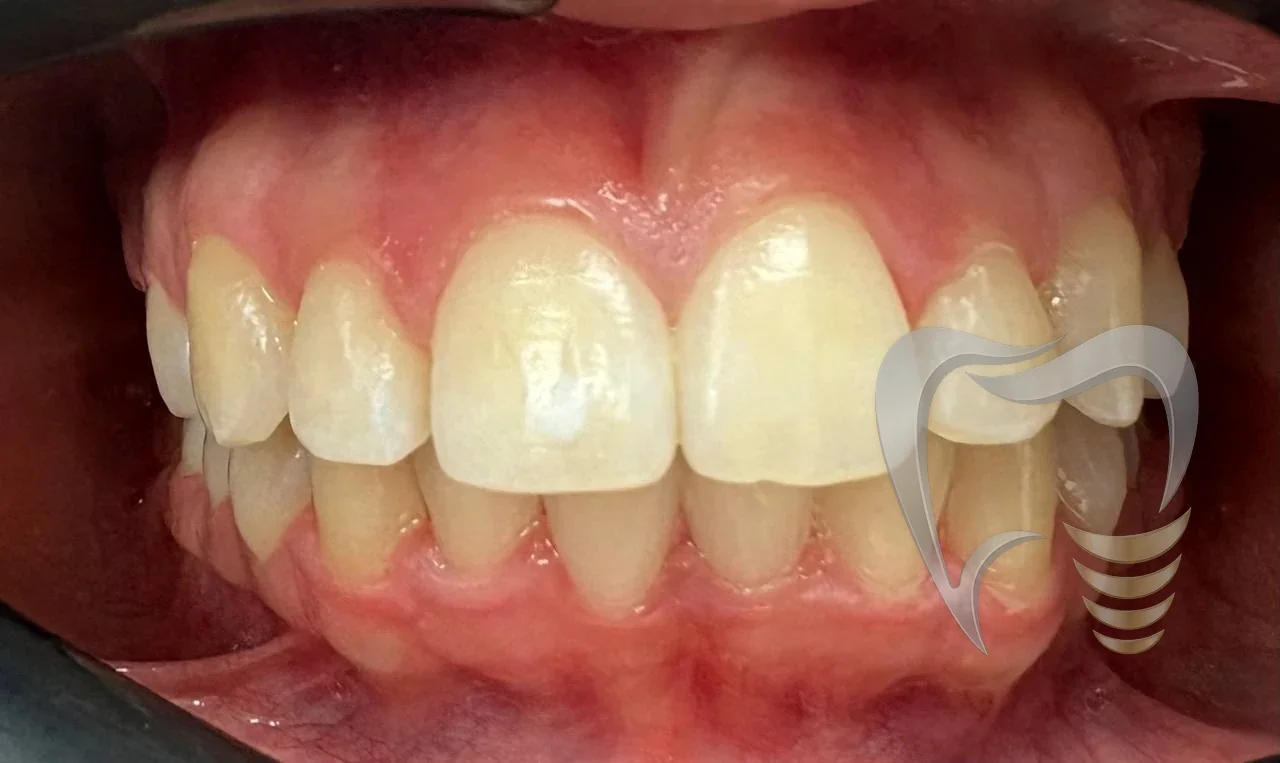
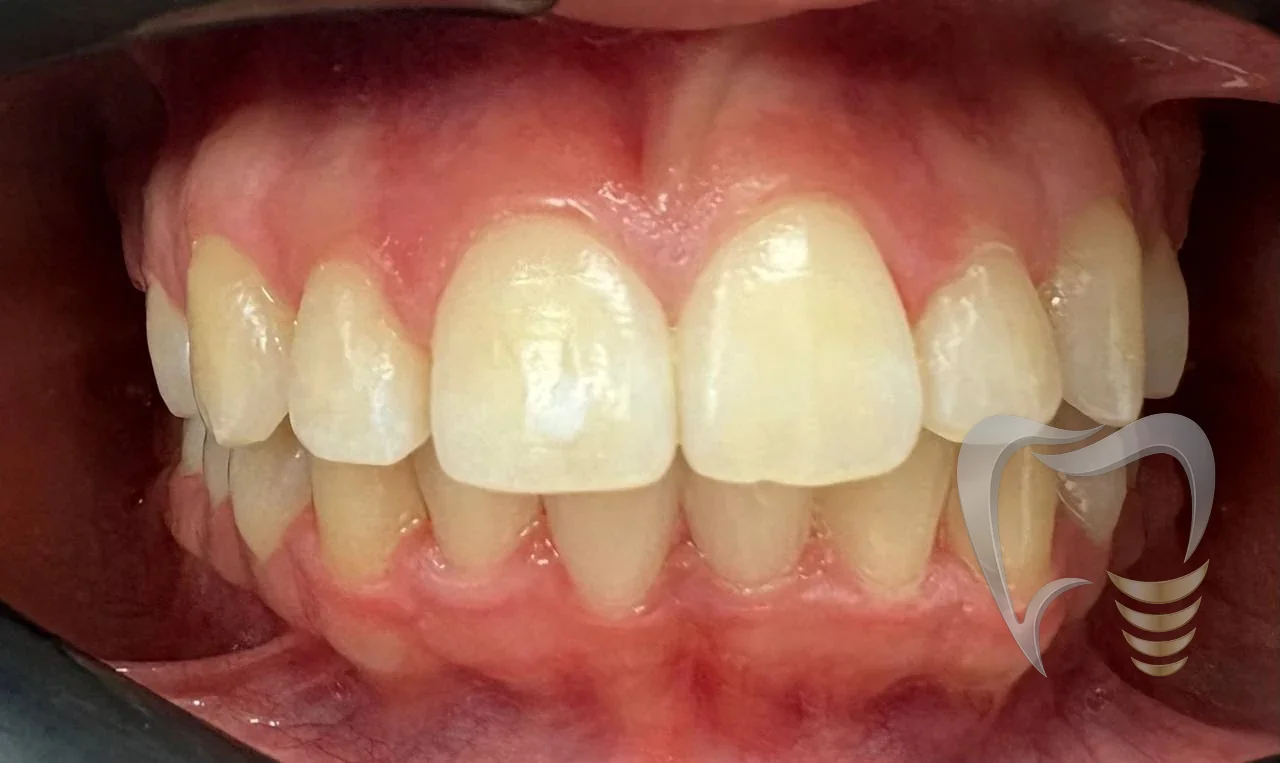
Водяной знак: размер от короткой стороны кадра, а не от ширины
Знак квадратный, и на широких снимках (*-full, например 1100x504)
расчёт от ширины раздувал его до 70% высоты кадра — в лайтбоксе,
где показываются именно full-версии, знак выглядел огромным.
Коэффициент 0.4286 подобран так, что на фото 4:3 результат прежний
(байт-в-байт), перегенерировались только широкие кадры.

Claude-Session: https://claude.ai/code/session_013XQ8Akc3UN6p6GWzUw4Por

Changed region(s): [[0.6562, 0.422, 0.9688, 0.9043]]

diff --git a/scripts/apply-watermark.py b/scripts/apply-watermark.py
@@ -24,8 +24,14 @@ SRC_DIR = ROOT / "assets" / "img" / "portfolio" / "_originals"
 OUT_DIR = ROOT / "assets" / "img" / "portfolio"
 WM_PATH = ROOT / "assets" / "img" / "watermark.png"
 
-WM_WIDTH_RATIO = 0.32  # watermark width as fraction of image width
-WM_MARGIN_RATIO = 0.03
+# ⚠ Размер знака считаем от КОРОТКОЙ стороны кадра, а не от ширины.
+# Знак квадратный, и при расчёте от ширины на широких снимках (`*-full`,
+# например 1100×504) он занимал до 70% высоты кадра и выглядел огромным,
+# хотя формально это были «те же 32%». Коэффициент 0.4286 подобран так,
+# чтобы на обычных фото 4:3 знак остался ровно прежним (0.32 ширины),
+# а широкие кадры получили тот же визуальный вес.
+WM_SIZE_RATIO = 0.4286   # сторона знака как доля от короткой стороны кадра
+WM_MARGIN_RATIO = 0.0402 # отступ — тоже от короткой стороны
 WM_OPACITY = 0.78
 # Сам знак светло-голубой и на белых зубных снимках почти теряется.
 # Подкладываем под него мягкий тёмный halo, чтобы оставался читаемым
@@ -37,7 +43,9 @@ SHADOW_BLUR_RATIO = 0.014  # радиус блюра как доля от шир
 def watermark_image(src: Path, out: Path, wm: Image.Image) -> None:
     img = Image.open(src).convert("RGBA")
 
-    target_w = int(img.width * WM_WIDTH_RATIO)
+    short_side = min(img.width, img.height)
+
+    target_w = int(short_side * WM_SIZE_RATIO)
     scale = target_w / wm.width
     target_h = int(wm.height * scale)
     wm_scaled = wm.resize((target_w, target_h), Image.LANCZOS)
@@ -45,7 +53,7 @@ def watermark_image(src: Path, out: Path, wm: Image.Image) -> None:
     alpha = wm_scaled.split()[3].point(lambda p: int(p * WM_OPACITY))
     wm_scaled.putalpha(alpha)
 
-    margin = int(img.width * WM_MARGIN_RATIO)
+    margin = int(short_side * WM_MARGIN_RATIO)
     pos = (img.width - target_w - margin, img.height - target_h - margin)
 
     blur_radius = max(2, int(target_w * SHADOW_BLUR_RATIO))

diff --git a/CLAUDE.md b/CLAUDE.md
@@ -83,7 +83,11 @@ read_file_content,list_recent_files}`.
 - Оригинал → `assets/img/portfolio/_originals/<имя>.webp` (4:3, 1200×896).
 - `python3 scripts/apply-watermark.py <имя>.webp` → водмаркнутая версия
   в `assets/img/portfolio/<имя>.webp` (на неё ссылается
-  `assets/js/portfolio.js`). Знак — 32% ширины, правый нижний угол.
+  `assets/js/portfolio.js`). Знак — **0.4286 короткой стороны кадра**
+  (на фото 4:3 это ровно прежние 32% ширины), правый нижний угол.
+  ⚠ Размер именно от короткой стороны, а не от ширины (исправлено
+  28.07.2026): знак квадратный, и на широких снимках (`*-full`) расчёт
+  от ширины раздувал его до 70% высоты кадра.
 - Коммитить и оригинал, и водмаркнутую версию.
 Ключи врачей в `window.AD_PORTFOLIO` (`portfolio.js`) совпадают со slug-ами
 страниц врачей.
